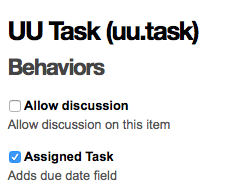
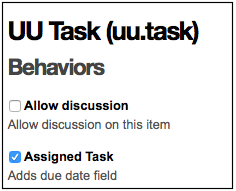
Add border, bold

Changed region(s): [[0.0, 0.0, 1.0, 0.9948]]

diff --git a/README.rst b/README.rst
@@ -26,8 +26,8 @@ Content Types
 
 ``uu.task`` adds content types:
 
-- UU Task
-- UU Task Planner
+- **UU Task**
+- **UU Task Planner**
 
 .. image:: screenshot.png
 
@@ -36,7 +36,7 @@ Behaviors
 
 ``uu.task`` adds a behavior:
 
-- Assigned Task
+- **Assigned Task**
 
 .. image:: screenshot2.png
 
